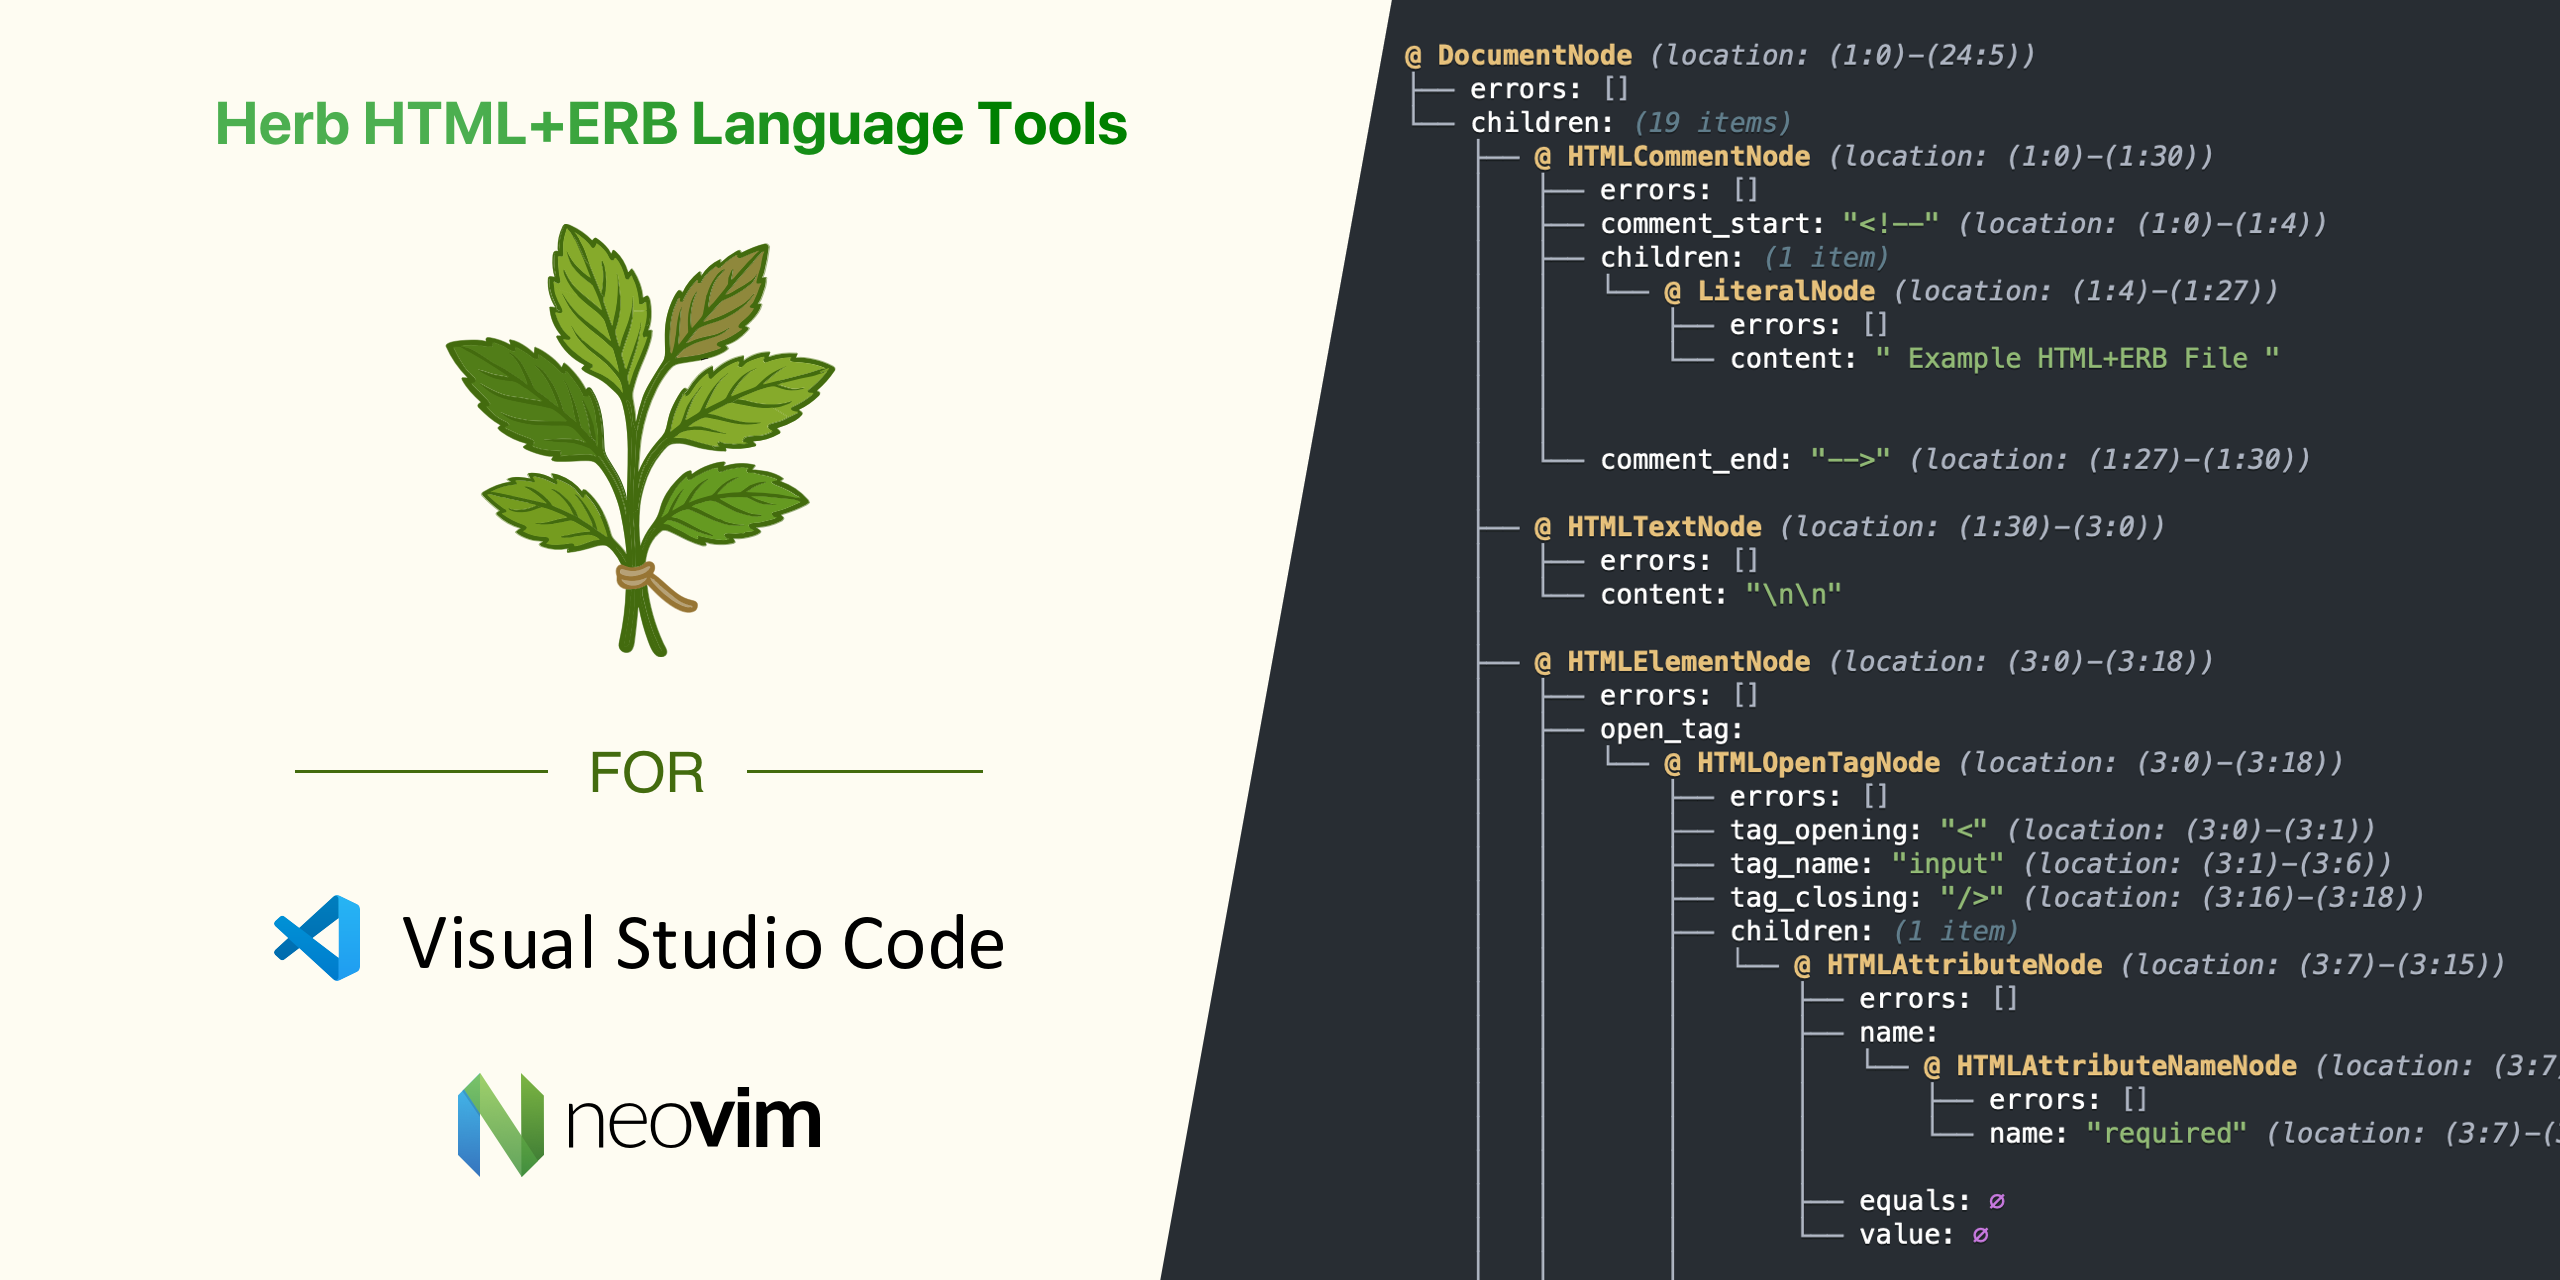
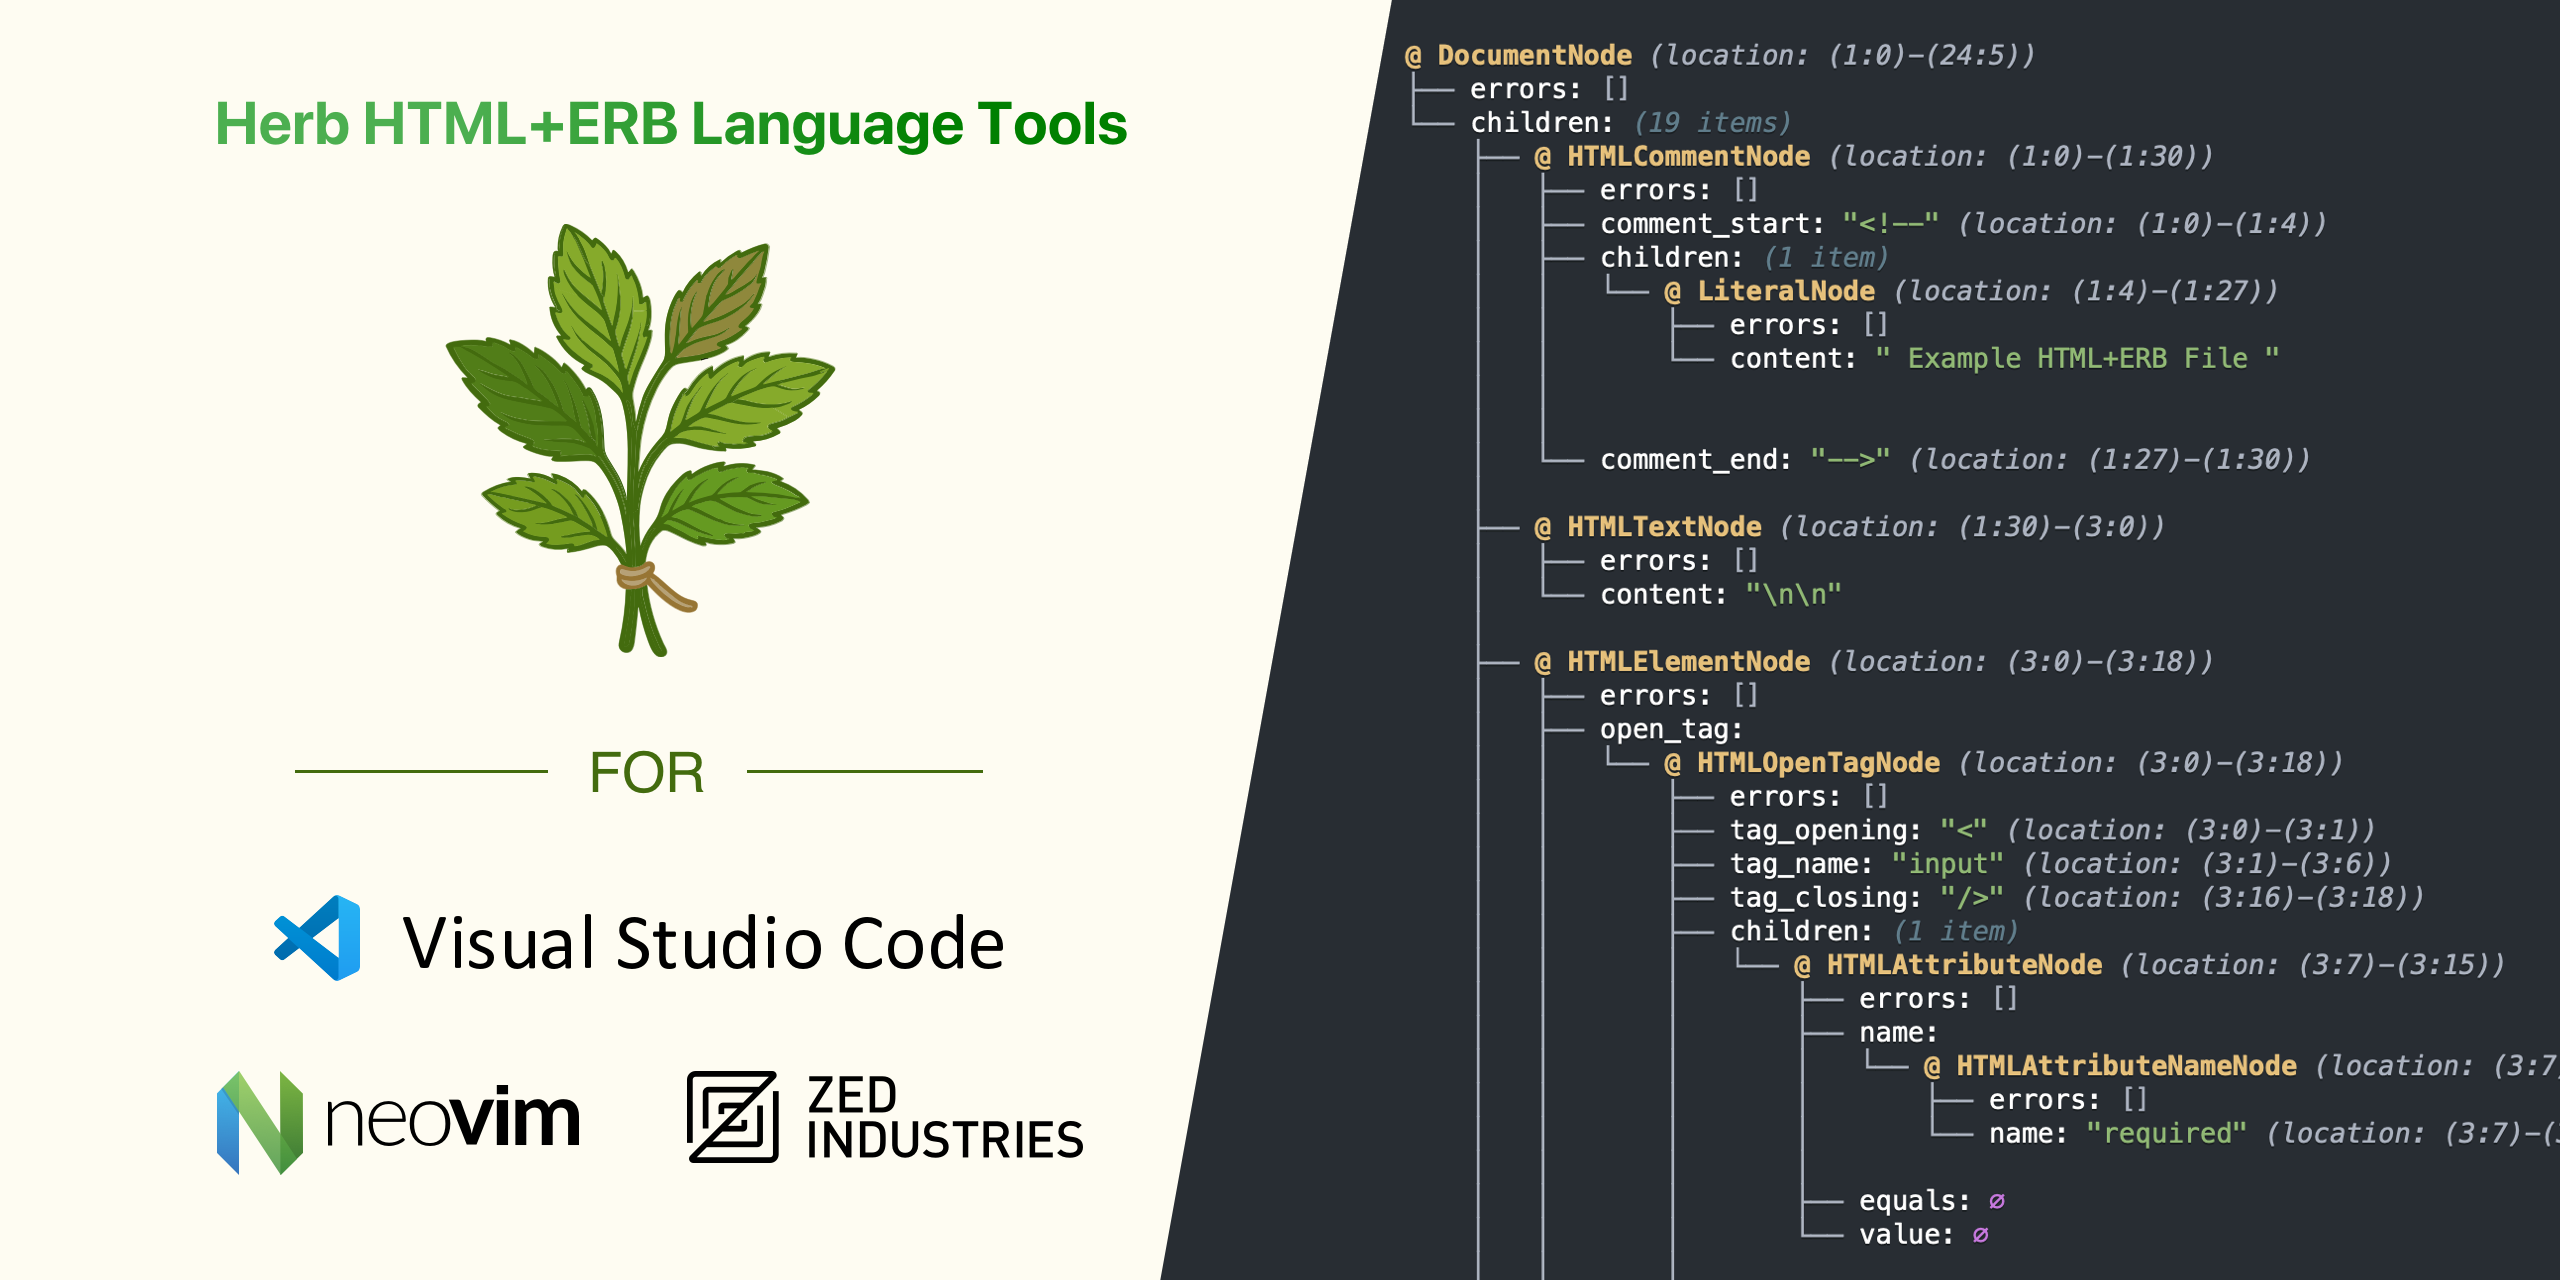
Update READMEs, images and copy

Changed region(s): [[0.0625, 0.8125, 0.4375, 0.9062]]

diff --git a/javascript/packages/vscode/README.md b/javascript/packages/vscode/README.md
@@ -1,20 +1,43 @@
-# Herb LSP for Visual Studio Code
+# Herb for Visual Studio Code
 
-A Visual Studio Code extension to use the [Herb Parser](https://herb-tools.dev) for HTML+ERB files.
+A Visual Studio Code extension for connecting with the [Herb Language Server](https://github.com/marcoroth/herb/tree/main/javascript/packages/language-server#readme) and Language Tools for HTML+ERB files using the [Herb](https://herb-tools.dev) HTML-aware ERB parser.
 
-![](./assets/herb-lsp.png)
+---
 
-## Install instructions
+### Installation
+
+#### Visual Studio Code
 
 Install the [Herb LSP extension](https://marketplace.visualstudio.com/items?itemName=marcoroth.herb-lsp) from the Visual Studio Marketplace.
 
+[![](./assets/herb-vscode.png)](https://marketplace.visualstudio.com/items?itemName=marcoroth.herb-lsp)
+
+#### Other editors
+
+If you are looking to use Herb in another editor, check out the instruction on the [Herb Language Server](https://github.com/marcoroth/herb/tree/main/javascript/packages/language-server#readme) page.
+
+[![](./assets/herb-lsp.png)](https://github.com/marcoroth/herb/tree/main/javascript/packages/language-server#readme)
+
 ## Functionality
 
-TODO
+#### Diagnostics
 
-## Structure
+* Missing HTML opening tags (`MissingOpeningTagError`)
+* Missing HTML closing tags (`MissingClosingTagError`)
+* Mismatched HTML attribute quotes (`QuotesMismatchError`)
+* Ruby syntax errors (`Ruby Syntax Error`) (via [Prism](https://github.com/ruby/prism)) (`RubyParseError`)
+* Mismatched HTML tag names (`TagNamesMismatchError`)
+* Unclosed elements at the end of the document (`UnclosedElementError`)
+* (`UnexpectedTokenError`)
+* (`VoidElementClosingTagError`)
 
-TODO
+#### Formatting (coming soon)
+
+Formatting and Auto-formatting are underway. We are planning to integrate the [Herb Formatter](https://x.com/marcoroth_/status/1936935430173471079) directly and conveniently into the Visual Studio Code extension.
+
+#### Roadmap/Ideas
+
+Check-out the roadmap/issues on [GitHub](https://github.com/marcoroth/herb) or suggest a new featured that you would like to see integrated into the Visual Studio Code extension.
 
 ## Running the extension locally
 

diff --git a/javascript/packages/language-server/README.md b/javascript/packages/language-server/README.md
@@ -1,22 +1,52 @@
-# Herb Language Server (`@herb-tools/language-server`)
+# Herb Language Server
+
+##### Package: [`@herb-tools/language-server`](https://www.npmjs.com/package/@herb-tools/language-server)
+
+---
 
 [Language Server Protocol](https://github.com/Microsoft/language-server-protocol) integration for HTML-aware ERB parsing using the [Herb Parser](https://herb-tools.dev).
 
 ![](./assets/herb-lsp.png)
 
-Used by the [Herb LSP](https://marketplace.visualstudio.com/items?itemName=marcoroth.herb-lsp) Visual Studio Code extension.
+### Installation
 
-## Install
+#### Visual Studio Code
+
+Install the [Herb LSP extension](https://marketplace.visualstudio.com/items?itemName=marcoroth.herb-lsp) from the Visual Studio Marketplace.
+
+#### Cursor (Open VSX Registry)
+
+Install the [Herb LSP extension](https://open-vsx.org/extension/marcoroth/herb-lsp) from the Open VSX Registry.
+
+#### Zed
+
+The Herb Language Server is part of the official [Ruby extension for Zed](https://github.com/zed-extensions/ruby). Just install the Ruby extension in Zed and you should be good to go.
+
+Read more in the [documentation](https://zed.dev/docs/languages/ruby).
+
+#### Neovim (using `nvim-lspconfig`)
+
+Coming soon, see [#3925](https://github.com/neovim/nvim-lspconfig/pull/3925).
+
+#### Manual Installation
+
+You can use the language server in any editor that supports the [Language Server Protocol](https://microsoft.github.io/language-server-protocol/).
+
+##### Install
+
+###### NPM (Global)
 
 ```bash
 npm install -g @herb-tools/language-server
 ```
 
+###### Yarn (Global)
+
 ```bash
 yarn global add @herb-tools/language-server
 ```
 
-## Run
+##### Run
 
 ```bash
 herb-language-server --stdio
@@ -30,4 +60,12 @@ Options:
   --stdio          use stdio
   --node-ipc       use node-ipc
   --socket=<port>  use socket
+```
+
+##### NPX
+
+Alternatively you can also run the language server directly with `npx` without installing anything:
+
+```bash
+npx @herb-tools/language-server --stdio
 ```

diff --git a/javascript/packages/herb-language-server/README.md b/javascript/packages/herb-language-server/README.md
@@ -1,3 +1,3 @@
 # Herb Language Server (`herb-language-server`)
 
-Placeholder package to reserve the `herb-language-server` name on NPM; use [`@herb-tools/language-server`](https://github.com/marcoroth/herb/tree/main/javascript/packages/language-server) instead.
+Placeholder package to reserve the `herb-language-server` name on NPM; use [`@herb-tools/language-server`](https://github.com/marcoroth/herb/tree/main/javascript/packages/language-server#readme) instead.
